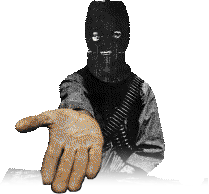
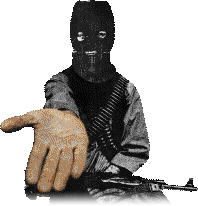
Update from Shopify for theme JapanjunkyTheme/main by Jacob H
Committed from shop: JJUNKY
Changed by: Jacob H

Files:
- modified layout/theme.liquid (Jacob H)
- modified assets/daruma-body.png (Jacob H)
- modified assets/japanjunky-bundle.css (Jacob H)
- modified assets/japanjunky-offer.js (Jacob H)
- modified assets/offer-man.png (Jacob H)

diff --git a/assets/japanjunky-bundle.css b/assets/japanjunky-bundle.css
@@ -432,11 +432,12 @@ html.jj-fx-lite.jj-gecko .jj-kyogen.jj-kyogen--baked .jj-kyogen__pupil {
    likewise no longer bails out of play().) */
 
 /* --- "The offer" (2026-11-03): masked figure behind the mystery box ---
-   ONE dithered sprite, offer-man.png (159x178), built by tools/offer-split.py
-   from mantheoffer.png: the figure MIRRORED (rev 6 "A+C": the offering hand
-   comes from his left so the arm reads whole -- the earlier split hand /
-   shifted hand / cloned sleeve are gone), stipple-dissolving at his other
-   wrist so the rifle and lap never cross the card copy. Same recipe as the
+   ONE dithered sprite, offer-man.png (220x206), built by tools/offer-split.py
+   from Mantheoffer.png: the WHOLE figure MIRRORED (rev 6 "A+C": the offering
+   hand comes from his left so the arm reads whole), crossed legs and the AK
+   across his lap included (rev 12, 2026-11-04; the rev 8 genie tail is
+   gone), fading out over the last rows of the source frame so the figure
+   never ends in a flat edge. Same recipe as the
    kyogen / daruma sprites (4x box downsample, Floyd-Steinberg to the phosphor
    palette: grey ramp on luminance for mask + cloth, greys + warm tones for the
    hand, 1-bit alpha), upscaled crisp (image-rendering: pixelated) at ~2-3.3
@@ -471,68 +472,8 @@ html.jj-fx-lite.jj-gecko .jj-kyogen.jj-kyogen--baked .jj-kyogen__pupil {
   opacity: 1;
   transform: none;
 }
-/* Genie tail (rev 8, user: "add a genie wisp tail... animated with smoke
-   effects"): offer-tail.png is the wispy lower half of genie.png, dithered to
-   the man's grey ramp (tools/offer-tail.py), hung from one anchor at his
-   waist by japanjunky-offer.js (the sprite's top centre is at 50 % of its
-   width, so left = anchor - width/2). Earlier sibling of the man at the same
-   z -1: his dissolving torso paints over the tail's faded-in top, so the two
-   melt into each other; still under the card copy and the box canvas.
-   The tail SWAYS from its top (transform-origin 50% 0, slow rotate +
-   stretch), and three smoke puffs (offer-puff.png, one procedural cloud)
-   drift up and out of it on staggered loops: scale up, fade in fast, fade
-   out slow -- per-puff drift via --dx/--dy. Reduced-motion bypass as the
-   kyogen/daruma. Gecko lite: no animation (same reason as the kyogen float:
-   software WebRender re-rasters the big bang snapshots under any moving
-   layer) -- the tail stands still and the puffs stay hidden. */
-.jj-offer__tail {
-  position: absolute;
-  z-index: -1;
-  pointer-events: none;
-  opacity: 0;
-  transition: opacity 1.2s ease-out 0.4s; /* arrives a beat after the man */
-}
-#jj-product-info.is-offering .jj-offer__tail {
-  opacity: 1;
-}
-.jj-offer__tail-img {
-  display: block;
-  width: 100%;
-  height: auto;
-  max-width: none;
-  image-rendering: pixelated;
-  transform-origin: 50% 0;
-  animation: jj-offer-tail-sway 7.5s ease-in-out infinite;
-}
-@keyframes jj-offer-tail-sway {
-  0%, 100% { transform: rotate(-2.5deg) scaleY(1); }
-  50%      { transform: rotate(2.5deg) scaleY(1.04); }
-}
-.jj-offer__puff {
-  position: absolute;
-  width: 26%;
-  height: auto;
-  max-width: none;
-  image-rendering: pixelated;
-  opacity: 0;
-  --dx: -30%;
-  --dy: -150%;
-  animation: jj-offer-puff 6s ease-out infinite;
-}
-.jj-offer__puff--1 { left: 22%; top: 40%; --dx: -45%; --dy: -160%; animation-delay: 0s; }
-.jj-offer__puff--2 { left: 52%; top: 58%; --dx: 35%; --dy: -140%; animation-duration: 7s; animation-delay: 2.3s; }
-.jj-offer__puff--3 { left: 38%; top: 24%; --dx: -10%; --dy: -170%; animation-duration: 5.5s; animation-delay: 4.1s; }
-@keyframes jj-offer-puff {
-  0%   { transform: translate(0, 0) scale(0.5) rotate(0deg); opacity: 0; }
-  14%  { opacity: 0.6; }
-  100% { transform: translate(var(--dx), var(--dy)) scale(1.6) rotate(28deg); opacity: 0; }
-}
-html.jj-fx-lite.jj-gecko .jj-offer__tail-img { animation: none !important; }
-html.jj-fx-lite.jj-gecko .jj-offer__puff { display: none !important; }
-
 /* Mobile: the card is reparented and the box lives in its own slot below it --
    no composition to serve, hidden. */
-html.jj-mobile .jj-offer__body,
-html.jj-mobile .jj-offer__tail {
+html.jj-mobile .jj-offer__body {
   display: none !important;
 }

diff --git a/assets/japanjunky-offer.js b/assets/japanjunky-offer.js
@@ -1,5 +1,6 @@
 /**
- * japanjunky-offer.js -- "the offer" (2026-11-03, rev 6 "A+C")
+ * japanjunky-offer.js -- "the offer" (2026-11-03, rev 6 "A+C"; rev 12 2026-11-04:
+ * whole figure, legs + AK across the lap, bottom fade, genie tail gone)
  * One mirrored, dithered sprite of a masked figure (#jj-offer-body, see
  * japanjunky-bundle.css "The offer") placed BEHIND the mystery box: palm on
  * the box's tape seam, whole head over the box's top edge where the viewport
@@ -16,7 +17,6 @@
   var card = document.getElementById('jj-product-info');
   var canvas = document.getElementById('jj-bundle-canvas');
   var man = document.getElementById('jj-offer-body');
-  var tail = document.getElementById('jj-offer-tail');
   if (!card || !canvas || !man) return;
 
   // -- Tuning ----------------------------------------------------------
@@ -46,11 +46,7 @@
   // (css px): 1920x1080 at zoom 2.5 is 762 wide, 2560x1440 is 1018.
   var VW_NARROW = 800, VW_WIDE = 1000;
   // Crop box of the sprite inside the mirrored source (tools/offer-split.py prints it).
-  var MAN_BBOX = { x: 244, y: 72, w: 836 };
-  // Genie tail (tools/offer-tail.py): hung by its top centre from this point
-  // in mirrored man-source px (his waist, inside the 640-820 fade band so the
-  // torso dissolves into it); w = the padded sprite width x 4.
-  var TAIL = { x: 690, y: 665, w: 1000 }; // a little right of centre: keeps the left lobe off the card copy
+  var MAN_BBOX = { x: 304, y: 72, w: 792 };
 
   var SCALE = SCALE_MIN, HEAD_PEEK = 0, SEAM_SRC_X = PALM.x; // last computed, for get()
 
@@ -77,11 +73,6 @@
     man.style.left = Math.round(ox + MAN_BBOX.x * SCALE) + 'px';
     man.style.top = Math.round(oy + MAN_BBOX.y * SCALE) + 'px';
     man.style.width = Math.round(MAN_BBOX.w * SCALE) + 'px';
-    if (tail) {
-      tail.style.left = Math.round(ox + (TAIL.x - TAIL.w / 2) * SCALE) + 'px';
-      tail.style.top = Math.round(oy + TAIL.y * SCALE) + 'px';
-      tail.style.width = Math.round(TAIL.w * SCALE) + 'px';
-    }
   }
 
   // One rAF late so layout from the same ResizeObserver / resize event has
